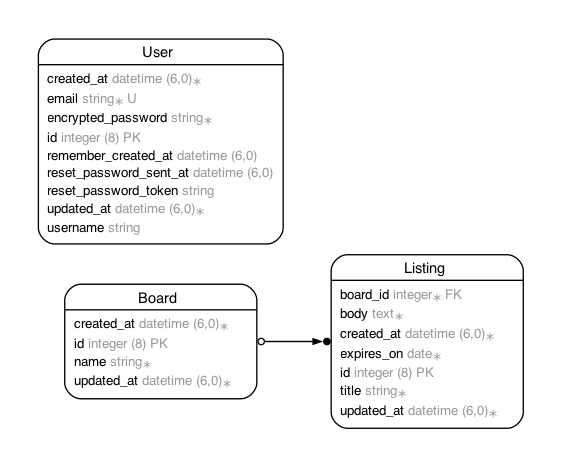
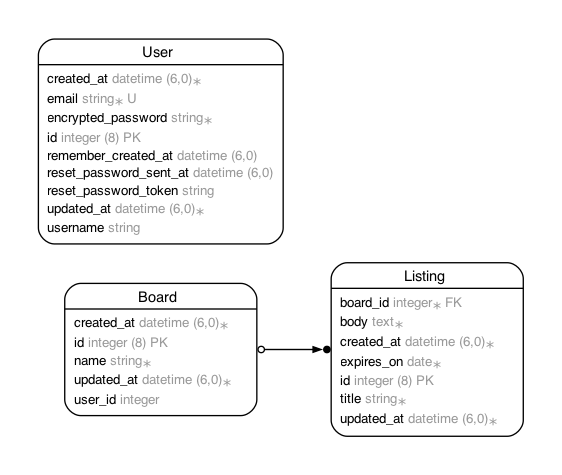
add user_id column to Board

diff --git a/db/schema.rb b/db/schema.rb
@@ -10,7 +10,7 @@
 #
 # It's strongly recommended that you check this file into your version control system.
 
-ActiveRecord::Schema[8.0].define(version: 2025_09_08_154829) do
+ActiveRecord::Schema[8.0].define(version: 2025_09_08_161830) do
   # These are extensions that must be enabled in order to support this database
   enable_extension "pg_catalog.plpgsql"
 
@@ -18,6 +18,7 @@ ActiveRecord::Schema[8.0].define(version: 2025_09_08_154829) do
     t.string "name"
     t.datetime "created_at", null: false
     t.datetime "updated_at", null: false
+    t.integer "user_id"
   end
 
   create_table "listings", force: :cascade do |t|

diff --git a/app/models/board.rb b/app/models/board.rb
@@ -6,6 +6,7 @@
 #  name       :string
 #  created_at :datetime         not null
 #  updated_at :datetime         not null
+#  user_id    :integer
 #
 class Board < ApplicationRecord
   validates :name, presence: true

diff --git a/db/migrate/20250908161830_add_user_id_to_boards.rb b/db/migrate/20250908161830_add_user_id_to_boards.rb
@@ -1,0 +1,5 @@
+class AddUserIdToBoards < ActiveRecord::Migration[8.0]
+  def change
+    add_column :boards, :user_id, :integer
+  end
+end
